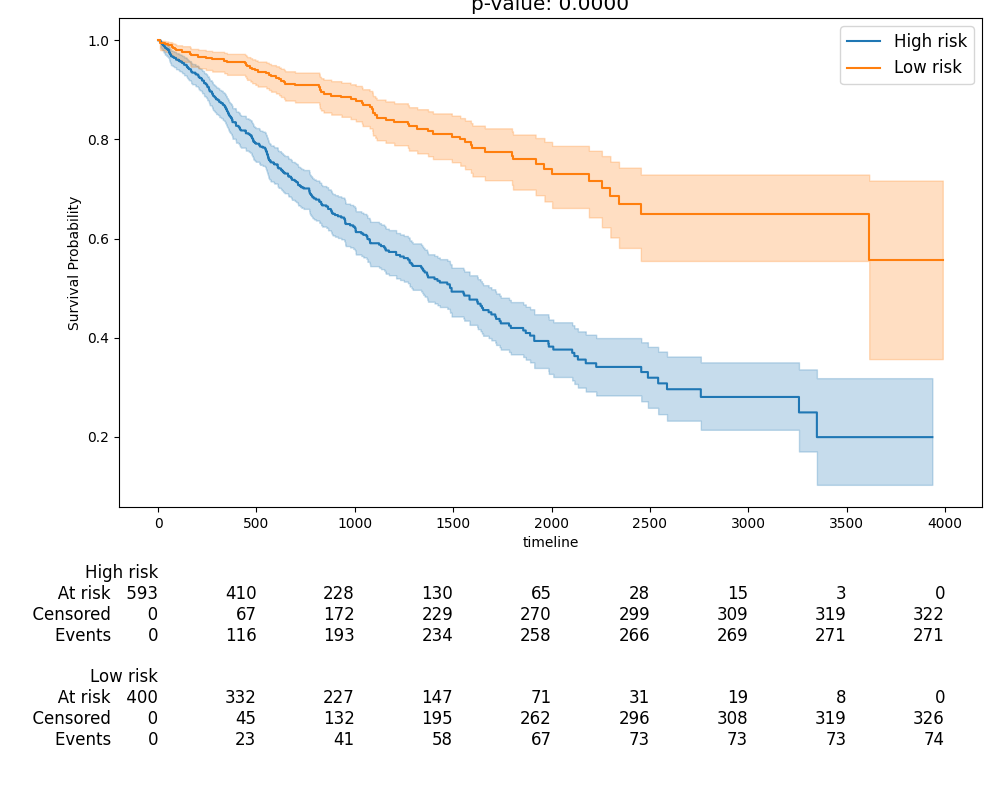
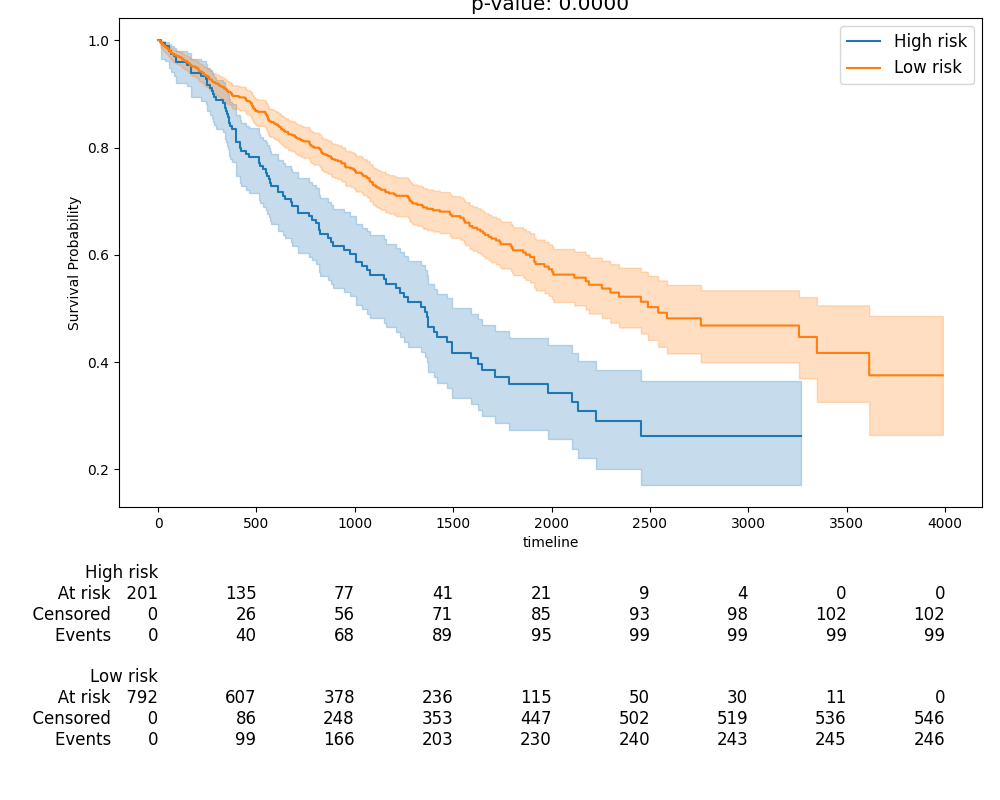
add annealing to bayes decomposition

diff --git a/analysis/a05_outcome_prediction/m_survival_analysis.py b/analysis/a05_outcome_prediction/m_survival_analysis.py
@@ -2372,8 +2372,8 @@ class SurvivalAnalyzer:
                 # 'Strategy3_Separate_Fusion': lambda s, idx, op, mp: self.strategy_3_separate_fusion(s, idx, op, mp, fusion_method),
                 # 'Strategy4_PCA_Separate_Fusion': lambda s, idx, op, mp: self.strategy_4_pca_separate_fusion(s, idx, op, mp, n_pca_components, fusion_method),
                 # 'Strategy5_Domain_Adaptation_Fusion': lambda s, idx, op, mp: self.strategy_5_domain_adaptation_fusion(s, idx, op, mp),
-                'Strategy6_Contextual_Bandit_Fusion': lambda s, idx, op, mp: self.strategy_6_EM_Contextual_Bandit(s, idx, op, mp),
-                # 'Strategy7_Variational_Survival_MoE': lambda s, idx, op, mp: self.strategy_7_variational_survival_moe(s, idx, op, mp),
+                # 'Strategy6_Contextual_Bandit_Fusion': lambda s, idx, op, mp: self.strategy_6_EM_Contextual_Bandit(s, idx, op, mp),
+                'Strategy7_Variational_Survival_MoE': lambda s, idx, op, mp: self.strategy_7_variational_survival_moe(s, idx, op, mp),
             }
         else:
             raise ValueError(f"{omics} is not supported yet")

diff --git a/modeling/vision/decomposition/bayes_decomposition.py b/modeling/vision/decomposition/bayes_decomposition.py
@@ -33,6 +33,7 @@ class BayesDec(nn.Module):
         # repeat for multi-channel image
         Dx_grouped = Dx.repeat(self.in_channel, 1, 1, 1)
         self.register_buffer('Dx', Dx_grouped)
+        self.step_counter = 0
 
 
     @staticmethod
@@ -94,8 +95,9 @@ class BayesDec(nn.Module):
            dim=1
         )
 
-        kl_mu_m = self.sigma_0 * (mu_m - self.mu_0) * (mu_m - self.mu_0)
-        kl_sigma_m = self.sigma_0 * torch.exp(log_var_m) - log_var_m
+        temp = 100 * 0.954993 ** min(step // 40, 100)
+        kl_mu_m = temp * self.sigma_0 * (mu_m - self.mu_0) * (mu_m - self.mu_0)
+        kl_sigma_m = temp * self.sigma_0 * torch.exp(log_var_m) - log_var_m
 
         visualize = {
             "shape": torch.concat([x, mu_x, torch.exp(log_var_x / 2)]),

diff --git a/modeling/architectures/bayes_seem_model.py b/modeling/architectures/bayes_seem_model.py
@@ -383,6 +383,7 @@ class BayesianSEEM(nn.Module):
         # Bayesian image decomposition
         decomp_outputs = self.decomposition(images.tensor)
         self.vis_counter += 1
+        self.decomposition.step_counter += 1
         if self.vis_counter % self.vis_every_n_steps == 0:
             self.visualizer(images.tensor, decomp_outputs['visualize'], self.vis_counter, self.writer)
 
